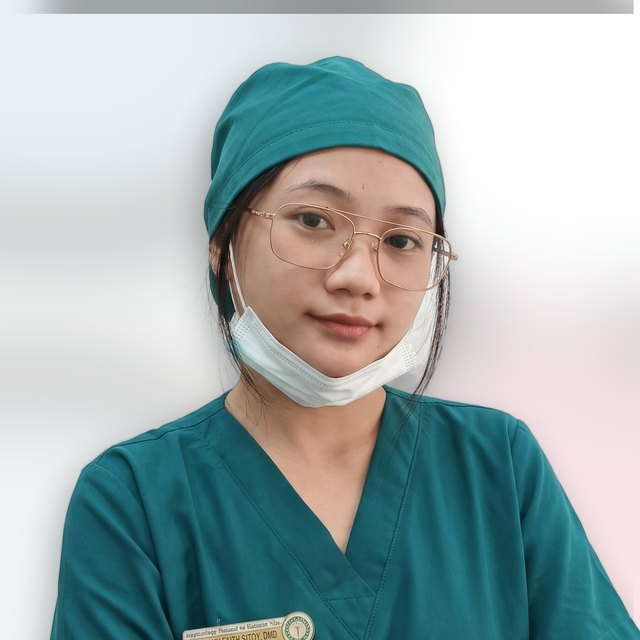
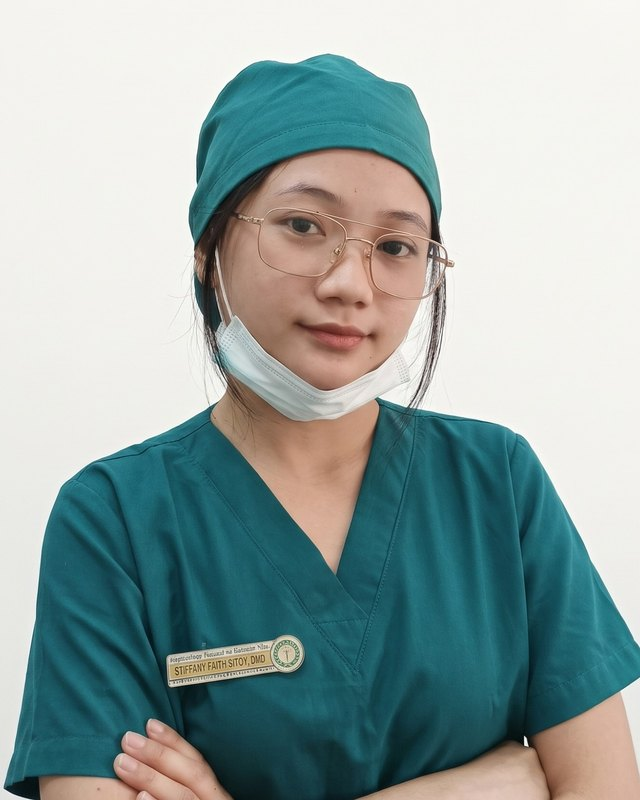
Use the original plain-background portrait in a taller frame
Drops the composited backdrop (its wrapped shadow produced a grey band
at the top) in favour of a direct 4:5 crop of the original photo, and
makes the portrait frame taller so the name tag sits fully in view.

Claude-Session: https://claude.ai/code/session_01T9ZGH7Dq4eAkqsCmE586Uq

diff --git a/src/styles/global.css b/src/styles/global.css
@@ -925,8 +925,8 @@ button:disabled {
 
 .doctor__portrait {
   width: 168px;
-  height: 168px;
-  border-radius: 44px;
+  height: 210px;
+  border-radius: 40px;
   overflow: hidden;
   background: var(--white);
   box-shadow: var(--shadow-md), 0 0 0 4px rgba(255, 255, 255, 0.85);
@@ -937,6 +937,7 @@ button:disabled {
   width: 100%;
   height: 100%;
   object-fit: cover;
+  object-position: center top;
   display: block;
 }
 

diff --git a/src/components/About.tsx b/src/components/About.tsx
@@ -36,7 +36,7 @@ export function About() {
                   className="doctor__photo"
                   src={portraitUrl}
                   width={640}
-                  height={640}
+                  height={800}
                   alt={`Portrait of Dr. ${CLINIC.doctor.fullName}, ${CLINIC.doctor.title}`}
                   loading="lazy"
                   decoding="async"
